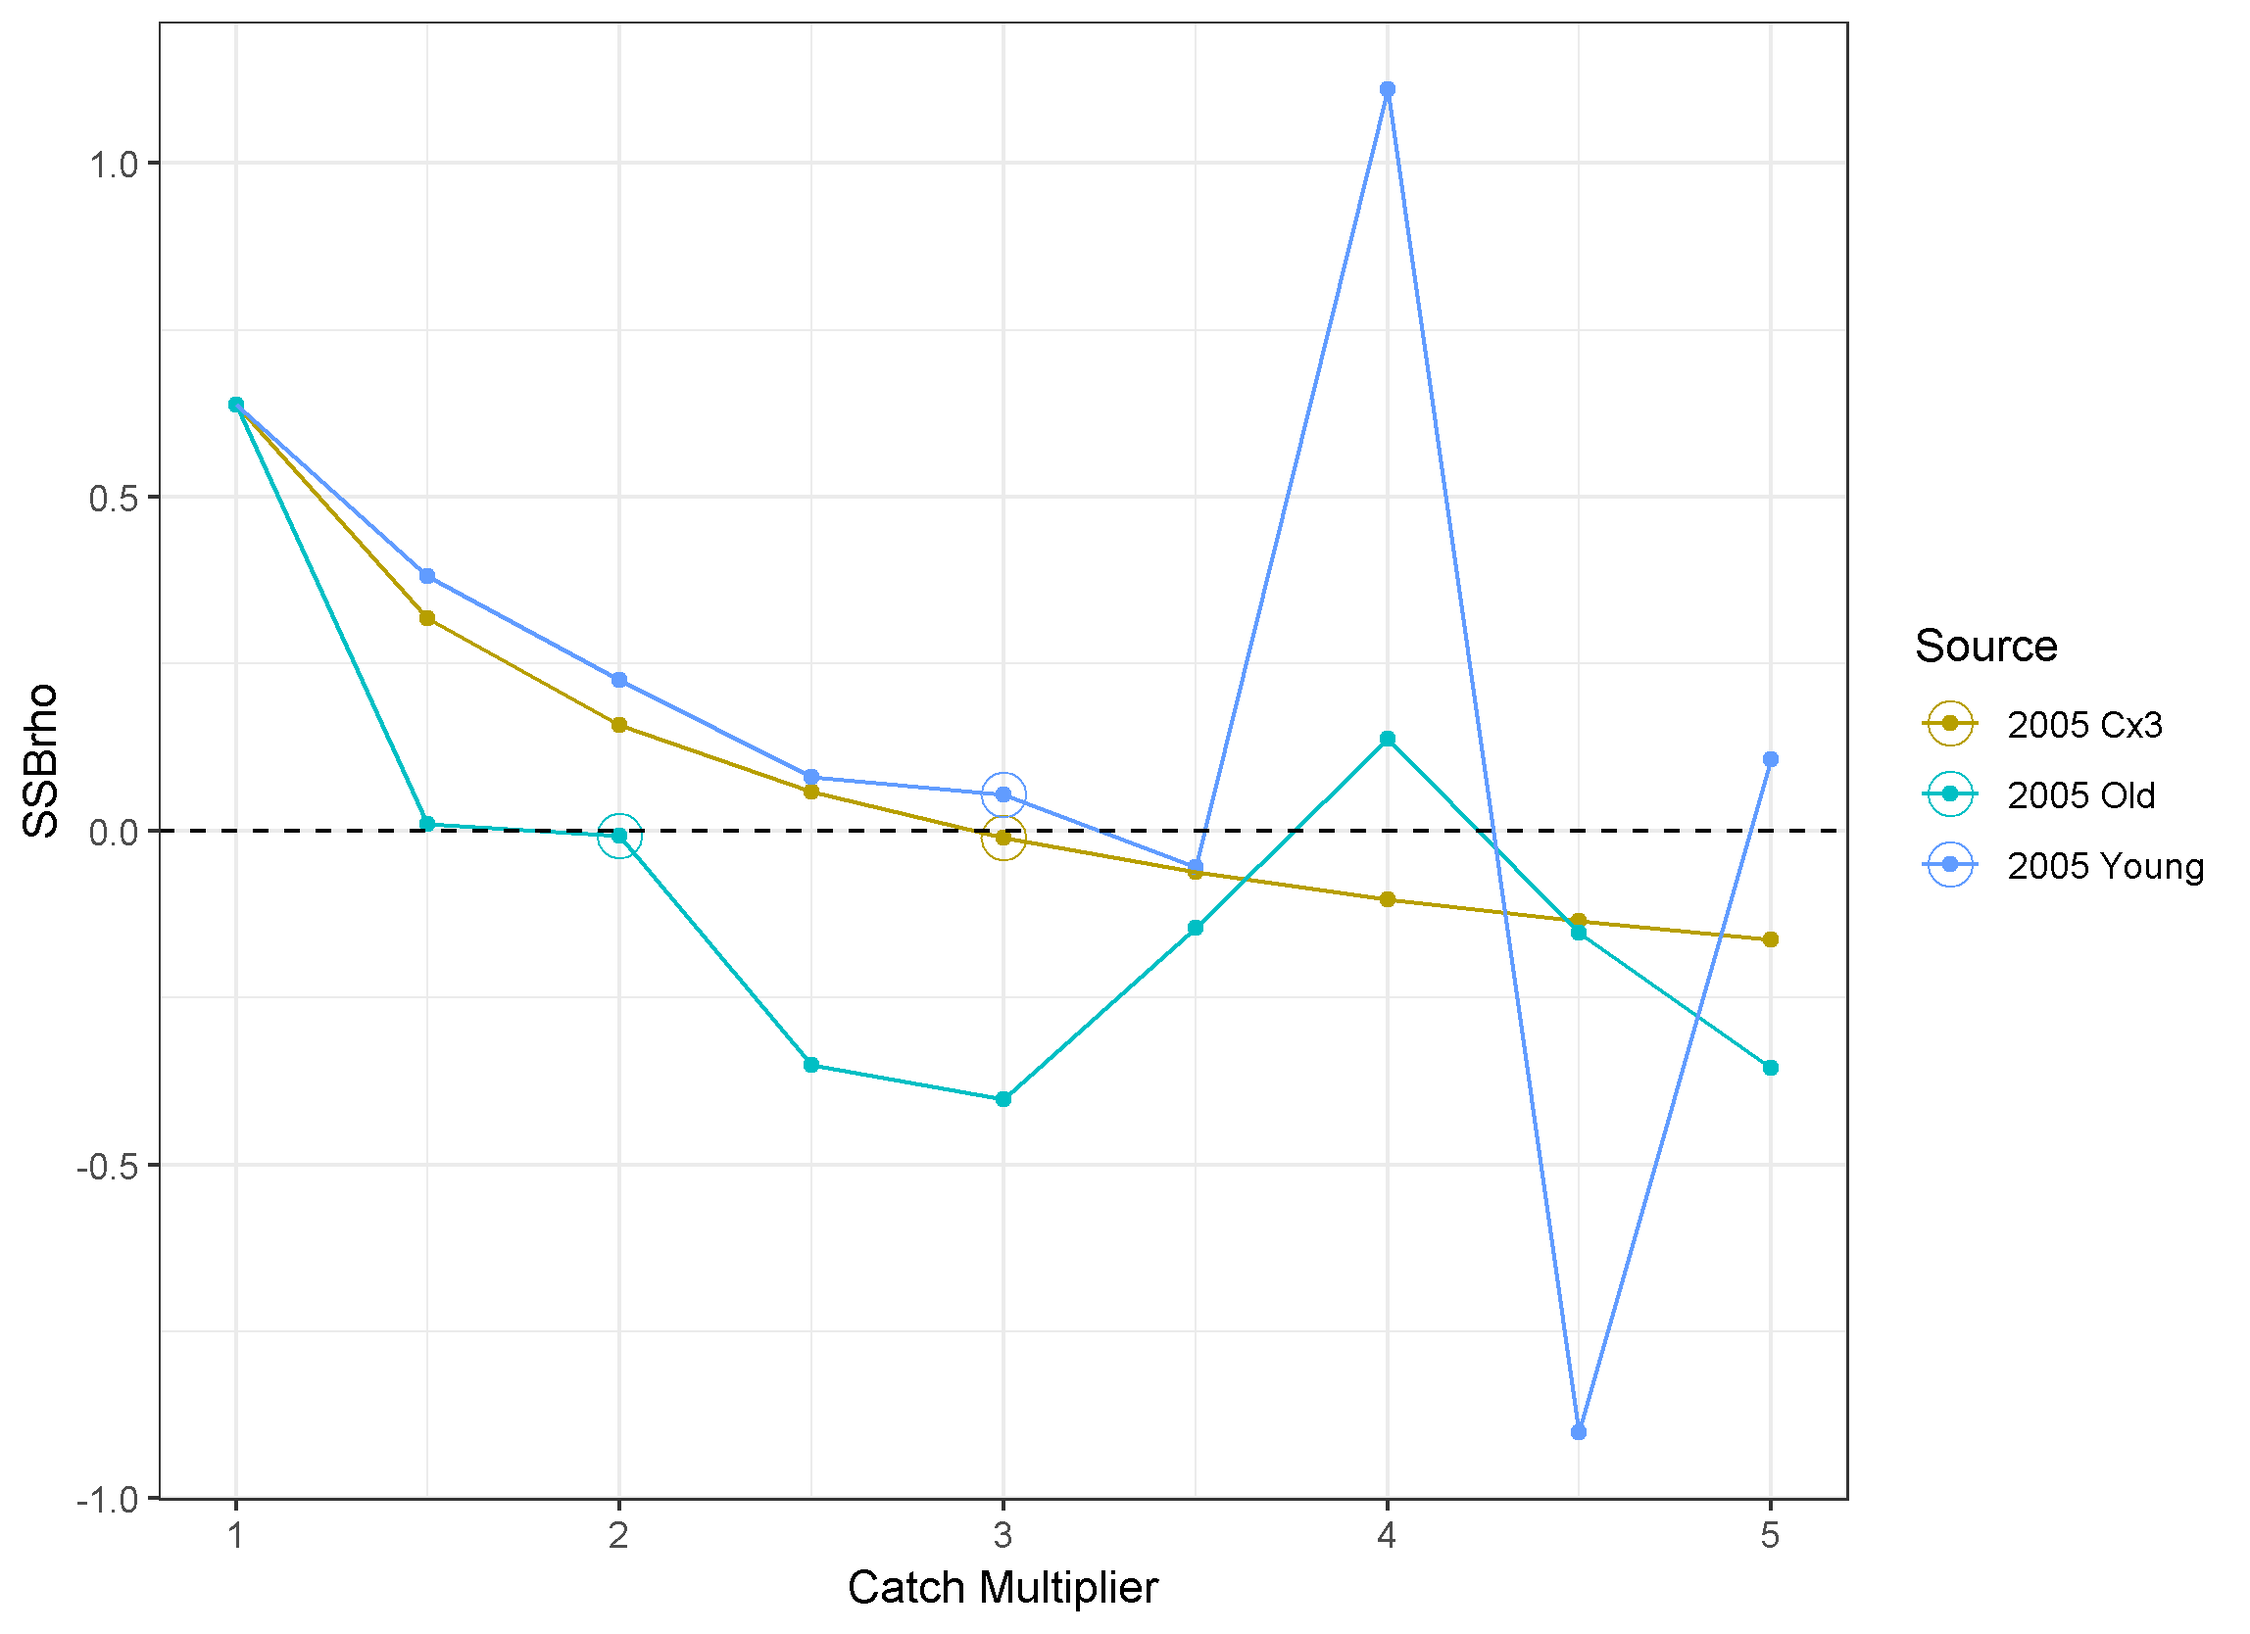
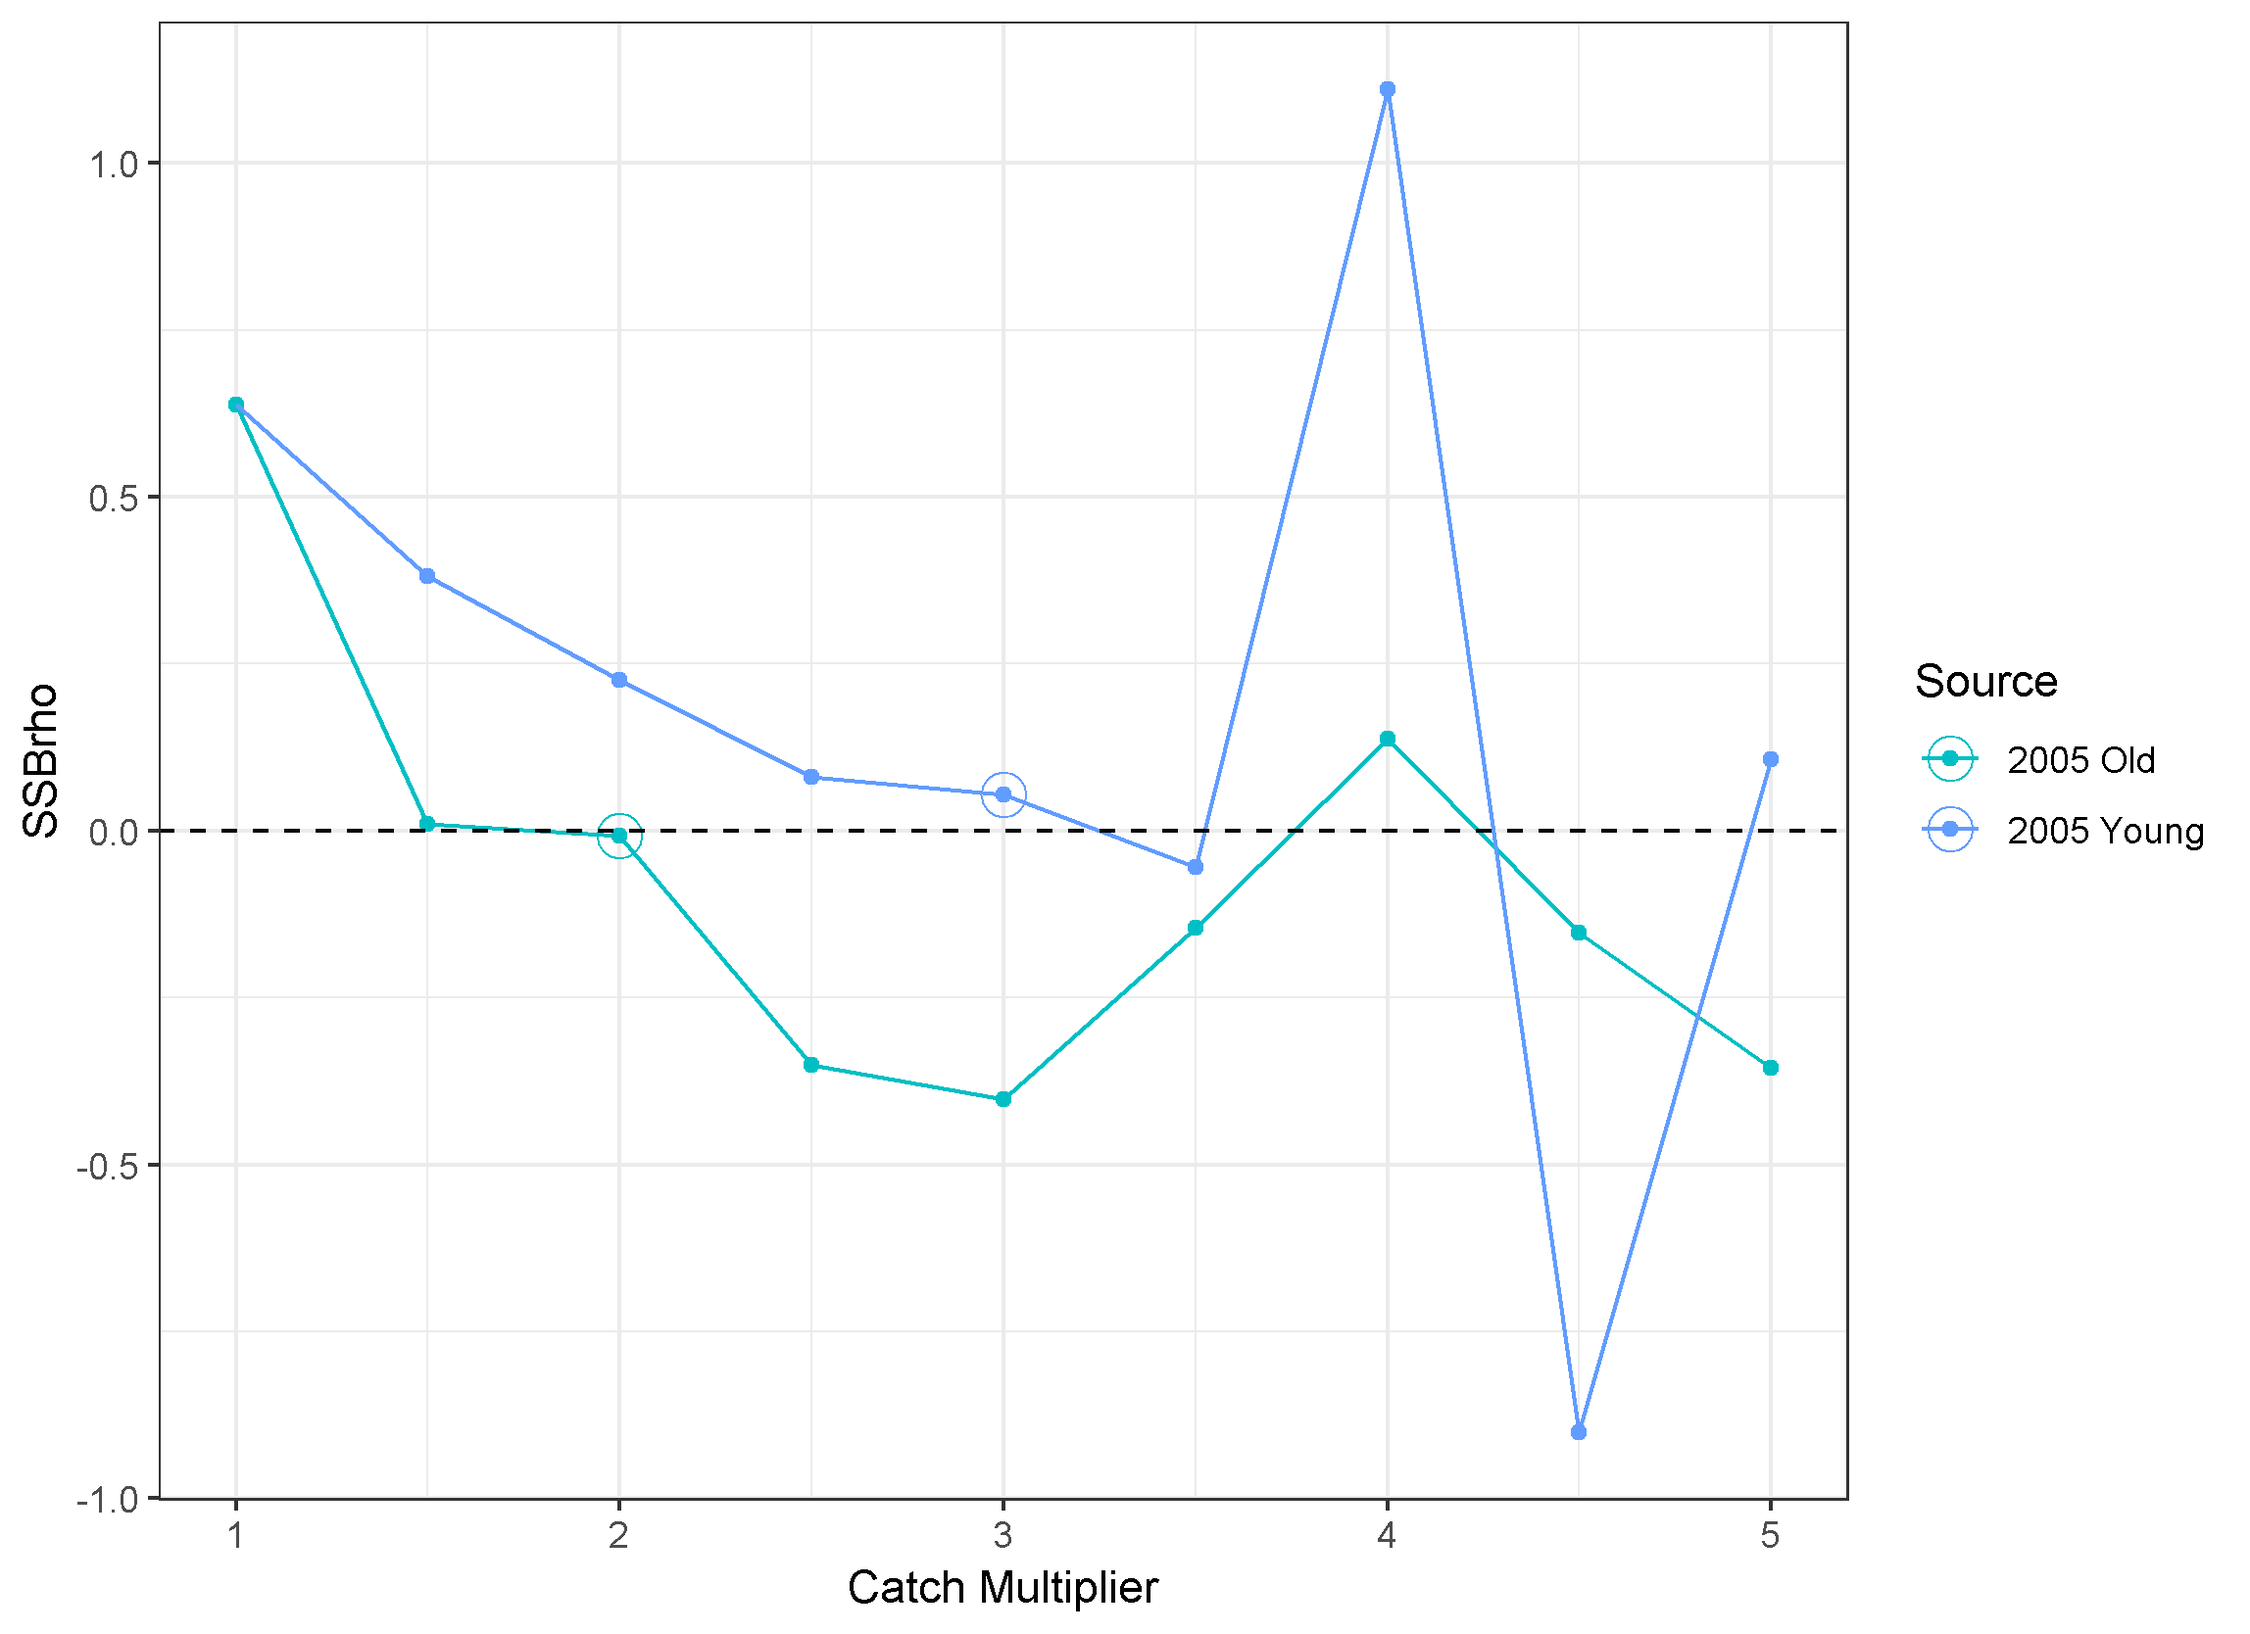
start adding Young and Old to readme

diff --git a/README.md b/README.md
@@ -46,12 +46,40 @@ When stocks exhibit strong retrospective patterns, as is the case for this witch
 
 ![adjusted catch advice](./witch/short_term_projections_adjusted.png)
 
+The story seems quite straight forward so far, but what if the missing catch has a different age composition than the modeled catch? For example, the missing catch could be due to discarding of predominantly young fish or due to not reporting catch of old fish that is sold on the black market. This complicates the picture quite a bit. For starters, there has to be some basis for setting the selectivity pattern for the missing catch, since by definition there cannot be sampling of catch that is not seen. For demonstration purposes, two scenarios were created based on missing catch starting in 2005. The Young scenario sets the selectivity at age for an added fleet to 1.0 for ages 2, 3, 4, and 5 and sets selectivity for the remaining ages (1, 6-11+) to 0.1. The Old scenario sets the selectivity at age for an added fleet to 1.0 for ages 9, 10, and 11+ and set selectivity for the remaining ages (1-8) to 0.0. These two cases will be compared with the Base case and the 2005 Cx3 case to demonstrate the importance of the selectivity associated with the missing catch for a fixed change year. Note the colors for the Base and 2005 Cx3 scenarios are the same as in the plots above to facilitate comparisons.
+
+Catch multipliers were searched for the two scenarios in a similar manner to above except in the new runs there is a second fleet with catch instead of just changing the amount of catch in the original fleet. This allows ASAP to remove fish according to the assumed selectivity pattern for the second fleet and still estimate selectivity for the original fleet. The retrospective peels did not consistently converge in the two new cases due to the radically different catch at age removals occuring, resulting in non-smooth changes in the Mohn's rho for SSB as the amount of missing catch increased. However, multipliers were found that essentially eliminated the retrospective pattern (denoted by the circled points). 
+
+![rhoplotfleet](rhoplotfleet.png)
+
+Click on the following links to see the selected retrospective plots for:
+* Change year 2000 https://github.com/cmlegault/gfishexplo/blob/master/witch/retro_F_SSB_R_Old2005c20.png
+* Change year 2005 https://github.com/cmlegault/gfishexplo/blob/master/witch/retro_F_SSB_R_Young2005c30.png
+
+These modifications to the catch data again changed the time series of estimates for SSB, F, and recruits, as expected. Note the 2005 Cx3 and 2005 Youngx3 scenarios are identical for the catch plot, but differ for F, recruits, and SSB, showing the importance of the selectivity pattern associated with the missing catch.
+
+![ftsplot](ftsplot.png)
+
+Add selectivity text and plot here...
+
+Add F40 text here...
+
+![F40fleet](F40fleet.png)
+
+Add short term projections text here...
+
+![short_term_projections_fleet](short_term_projections_fleet.png)
+
+Add adjusted short term projections text here...
+
+![short_term_projections_fleet_adjusted](short_term_projections_fleet_adjusted.png)
+
 ## Concluding thoughts
 
 * The witch flounder example demonstrates that there are multiple ways to eliminate the retrospective pattern due to missing catch, with the amount of missing catch depending on when the change starts and the age distribution of the missing catch relative to the observed catch. Generally, there is some potential to increase the quota under the assumption that missing catch was the only source of the retrospective pattern, but the amount of increase is generally less than the amount of catch needed to eliminate the retrospective, and the amount of catch varies depending on when it starts and its age distribution. So there is not a simple relationship that can be used between the size fo the retrospective pattern observed and the amount of quota increase that is possible.
 * Returning the witch flounder catch time series, there are some obvious spikes and unusual patterns in all three catch multiplier scenarios relative to the base case. If additional information was available, or it was thought that large sudden changes in catch were unlikely, then it might be possible to select a single year to assume when the change in catch occurred. Alternatively, and more likely, there could be some sort of ramp up into the missing catch associated with missing catch starting slow and building to a large amount over time as incentives for it increased. This would further complicate the relationship between the amount of retrospective pattern and whether additional quota could be assocaited with eliminating missing catch.
 * As populations decrease, the variability in the population associated with natural mortality would most likely increase, making natural mortality changes a possible source of retrospective patterns as well. If natural mortality is in fact the only source of the retrospective pattern, then there is no basis for increasing the quota due to eliminating the missing catch.
 
-Note to self: some things to discuss
+Note to self: 
 * think about repeating for other stocks
 * figure out what to keep in witch dir and clean out rundir (save somewhere until sure don't need things)
